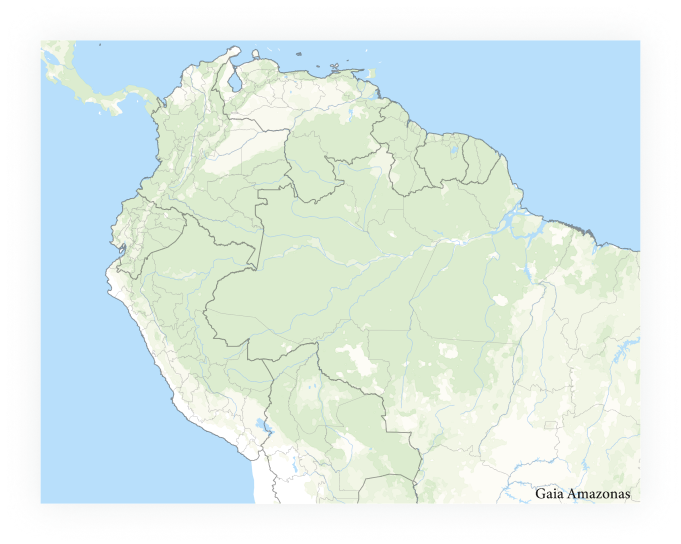
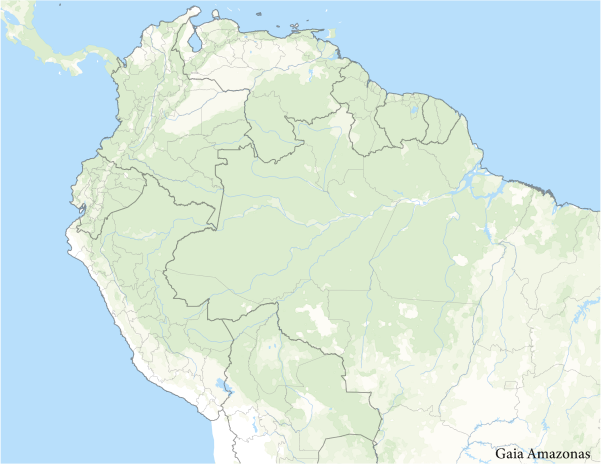
programacion imagenes

diff --git a/index.html b/index.html
@@ -8,20 +8,27 @@
 </head>
 <body>
 
-    <div style="height: 500px;">
-        <img src="./assets/diversidadCulturalMapa.png" class="imgDiversidadCultural" alt="" />
-        <img src="./assets/mapaBaseDiversidadCultural.png" class="imgDiversidadCultural2" alt="" style="display: none;"/>
-        <img src="./assets/pueblosIndigenasGobierno.png" class="imgPueblosIndigenasGobierno" alt="" style="display: none;"/>
-
+    <div class="contentImages">
+        <img src="./assets/PresionesAmenazas/ImageBase.png" class="imgBasePA" alt="" />
+        <img src="./assets/PresionesAmenazas/PA_mineria.png" class="imgMineriaPA" alt="" style="display: none;"/>
+        <img src="./assets/PresionesAmenazas/PA_petroleo.png" class="imgPetroleoPA" alt="" style="display: none;"/>
+        <img src="./assets/PresionesAmenazas/PA_hidroelectricas.png" class="imgHidroelectricaPA" alt="" style="display: none;"/>
+        <img src="./assets/PresionesAmenazas/PA_deforestacion2018.png" class="imgDeforestacioPA" alt="" style="display: none;"/>
     </div>
-    <br>
     
-    <input type="checkbox" id="diversidadCultural" class="diversidadCultura2" >
-    <label for="diversidadCultural">Diversidad cultura</label>
+    <div class="inputMaps">
+        <input type="checkbox" id="mineriaPA" class="mineriaPA" >
+        <label for="mineriaPA">Minería</label>
 
-    <input type="checkbox" id="pueblosIndigenasGobierno" class="pueblosIndigenasGobierno" >
-    <label for="pueblosIndigenasGobierno">Pueblos Indigenas</label>
-    
+        <input type="checkbox" id="petroleoPA" class="petroleoPA" >
+        <label for="petroleoPA">Petróleo</label>
+
+        <input type="checkbox" id="hidroelectricaPA" class="hidroelectricaPA" >
+        <label for="hidroelectricaPA">Hidroeléctricas</label>
+
+        <input type="checkbox" id="deforestacioPA" class="deforestacioPA" >
+        <label for="deforestacioPA">Deforestación 2018</label>
+    </div>
 </body>
 
 <script src="main.js"></script>

diff --git a/main.js b/main.js
@@ -1,13 +1,17 @@
+// Imagenes //
 
+//const imgBasePA = document.querySelector('.imgBasePA');
+const imgMineriaPA = document.querySelector('.imgMineriaPA');
+const imgPetroleoPA = document.querySelector('.imgPetroleoPA');
+const imgHidroelectricaPA = document.querySelector('.imgHidroelectricaPA');
+const imgDeforestacioPA = document.querySelector('.imgDeforestacioPA');
 
-// const buttonDiversidadCultural = document.querySelector('.diversidadCultura');
-const buttonDiversidadCultural2 = document.querySelector('.diversidadCultura2');
-const buttonPueblosIndigenasGobierno = document.querySelector('.pueblosIndigenasGobierno');
+/* inputs */
 
-// const imgDiversidadCultural = document.querySelector('.imgDiversidadCultural');
-const imgDiversidadCultural2 = document.querySelector('.imgDiversidadCultural2');
-const imgPueblosIndigenasGobierno = document.querySelector('.imgPueblosIndigenasGobierno');
-
+const mineriaPA = document.querySelector('.mineriaPA');
+const petroleoPA = document.querySelector('.petroleoPA');
+const hidroelectricaPA = document.querySelector('.hidroelectricaPA');
+const deforestacioPA = document.querySelector('.deforestacioPA');
 
 const imagenVisible = ( input, image ) => {
 
@@ -26,5 +30,9 @@ const imagenVisible = ( input, image ) => {
 
 }
 
-imagenVisible( buttonDiversidadCultural2, imgDiversidadCultural2 );
-imagenVisible( buttonPueblosIndigenasGobierno, imgPueblosIndigenasGobierno );
+/* imagen visible */
+imagenVisible(mineriaPA, imgMineriaPA);
+imagenVisible(petroleoPA, imgPetroleoPA);
+imagenVisible(hidroelectricaPA, imgHidroelectricaPA);
+imagenVisible(deforestacioPA, imgDeforestacioPA);
+

diff --git a/styles.css b/styles.css
@@ -1,13 +1,40 @@
-.diversidadCultura {
-    width: 50px;
-    height: 50px;
+body {
+    margin: 0;
+}
+.contentImages {
+    display:block;
+    position: relative;
 }
 
-.imgDiversidadCultural {
-    position: fixed;
+.contentImages .imgBasePA {
+    position: relative;
     z-index: 1;
 }
 
-img {
-    position: fixed;
+.contentImages .imgMineriaPA {
+    position: absolute;
+    left: 0;
+    z-index: 2;
+}
+
+.contentImages .imgPetroleoPA {
+    position: absolute;
+    left: 0;
+    z-index: 3;
+}
+
+.contentImages .imgHidroelectricaPA {
+    position: absolute;
+    left: 0;
+    z-index: 4;
+}
+
+.contentImages .imgDeforestacioPA {
+    position: absolute;
+    left: 0;
+    z-index: 5;
+}
+
+.inputMaps {
+    display: block;
 }
